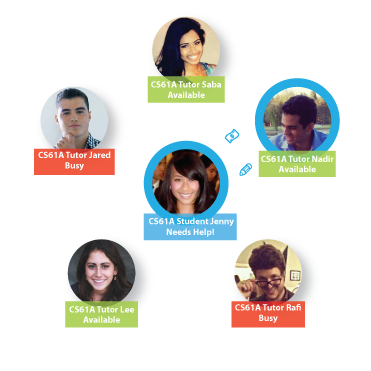
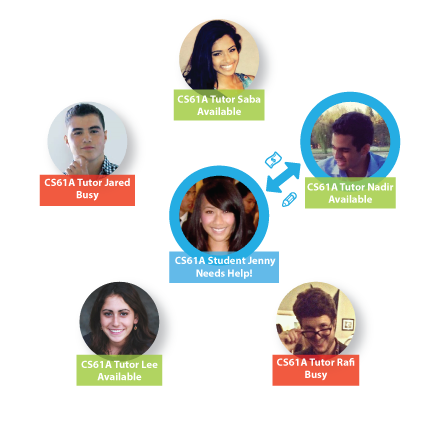
another attempt at responsive how-it-works

diff --git a/app/static/css/new_style.css b/app/static/css/new_style.css
@@ -233,6 +233,86 @@ h1,h2,h3,h4,h5,h6 {
 
 }
 
+@media only screen and (min-width: 1200px) and (min-height:700px) {
+  #how-it-works-img {
+    width:100%;
+    margin-top:-25px;
+   } 
+   #how-it-works-header {
+    margin-top:5%;
+    margin-bottom:20px;
+  }
+  #scroll-back-home {
+    font-size:1.3em;
+    bottom:2%;
+  }
+  #how-it-works-text {
+    font-size:25px;
+  }
+}
+
+@media only screen and (min-width: 1200px) and (min-height:850px) {
+
+   body #main { font-size: 2.5em; }
+   #home-logo-text {
+    font-size:5em;
+    margin-top:-1.33em;
+   }
+   .home-btn {
+      padding: 12px 12px;
+      border: 1px solid white;
+      border-radius: 9px;
+      text-align:center;
+      font-size:0.6em;
+      width:275px;
+      font-family:'Roboto',sans-serif; 
+      font-weight: 100;
+   }
+
+   #home-logo-img {
+    height:200px;
+   }
+
+   #login-text {
+    font-size:0.6em;
+    margin-top:125px;
+   }
+
+   #how-it-works-text, #scroll-back-home {
+    font-size:0.7em;
+   }
+
+   #how-it-works-img {
+    margin-top:-25px;
+    width:100%;
+   }
+
+  .one-step p, #the-result p {
+    font-size:1.3em;
+    font-weight:100;
+    margin-top:20px;
+  }
+
+  #scroll-back-home {
+    font-size:1.3em;
+    bottom:2%;
+  }
+
+  #how-it-works-header {
+    margin-top:5%;
+    margin-bottom:20px;
+  }
+
+  .one-step h3, #the-result h3 {
+    font-size:2em;
+  }
+
+  #how-it-works-header h1 {
+    font-size:3em;
+  }
+
+}
+
 input:focus, textarea:focus {
   outline:none;
 }

diff --git a/app/templates/new_index.html b/app/templates/new_index.html
@@ -77,12 +77,12 @@
           <div id="how-it-works">
             <div class="container-fluid">
               <div class="row">
-                <div id="how-it-works-header"class="col-xs-12 col-md-12 col-sm-12">
+                <div id="how-it-works-header"class="col-xs-12 col-md-12 col-sm-12 col-lg-offset-1 col-lg-10">
                   <h1> Earn easy side cash by sharing your knowledge </h1>
                 </div>
               </div>
               <div id="how-it-works-main" class="row">
-                <div class="col-sm-7 col-md-7 col-xs-12">
+                <div class="col-sm-7 col-md-7 col-xs-12 col-lg-offset-1 col-lg-6">
                   <div class="one-step">
                     <h3 class="step-header"> Step 1: Student sends request</h3>
                     <p>Finals are coming and Jenny needs help with CS61A, so she sends out a tutoring
@@ -115,7 +115,7 @@
                       </div>
                   </div>
                 </div>
-                <div style="padding-left:0px"class="col-sm-5 col-md-5 col-xs-12">
+                <div style="padding-left:0px"class="col-sm-5 col-md-5 col-xs-12 col-lg-4">
                   <div style="margin-left:-20px"id="how-it-works-image">
                     <img id="how-it-works-img" src="/static/img/web-how-it-works.png">
                   </div>
